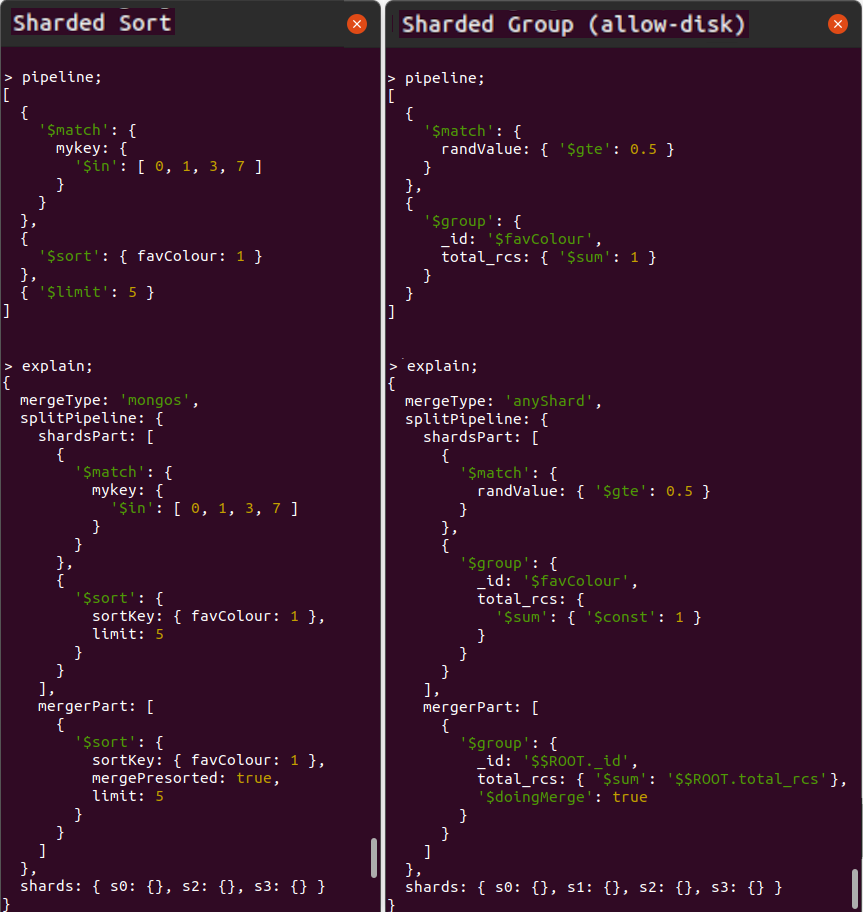
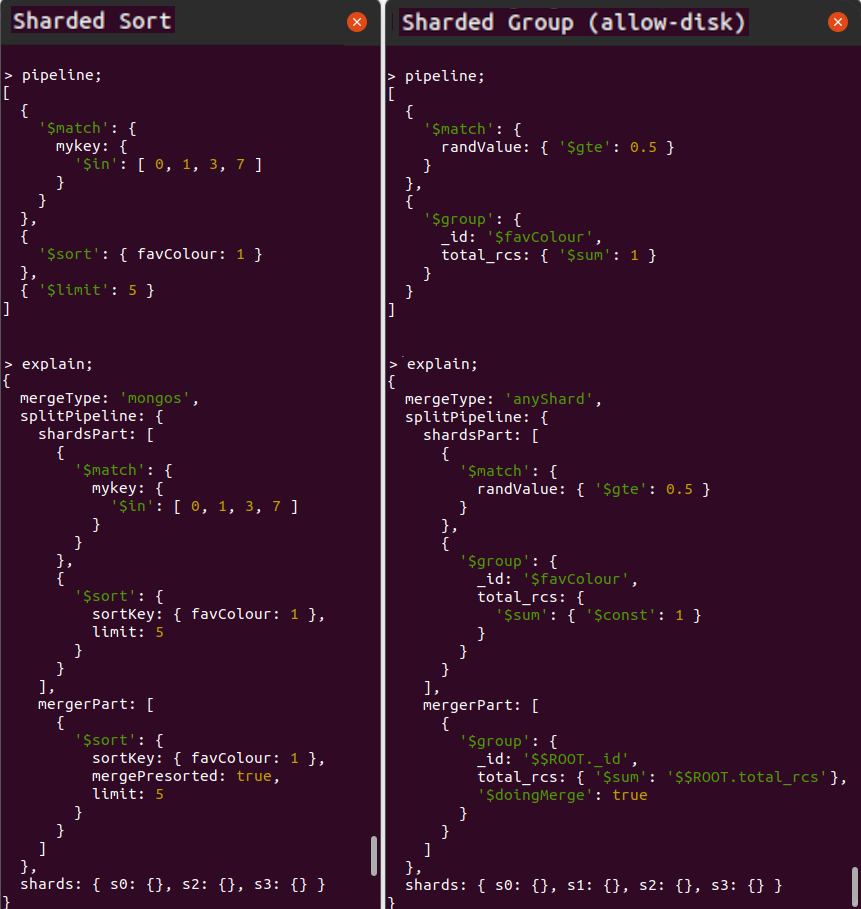
Various preliminary changes for 7.0 + rounding or transparency of images to help with dark mode viewing of the book

diff --git a/src/examples/array-manipulations/array-fields-joining.md b/src/examples/array-manipulations/array-fields-joining.md
@@ -1,0 +1,184 @@
+# Array Fields Joining
+
+__Minimum MongoDB Version:__ 4.2
+
+
+## Scenario
+
+You are developing a new dating website application using a database to hold the profiles of all registered users. For each user profile, you will persist a list of the user's specified hobbies, each with a description of how the user says they conduct the hobby. Each user profile also captures what the user prefers to do depending on their mood (e.g., "happy", "sad", or "chilling"). When you show the user profiles on the website to a person searching for a date, you want to show each candidate profile's description of how the candidate conducts their hobby for each mood, to help the person spot their ideal match.
+
+## Sample Data Population
+
+Drop any old version of the database (if it exists) and then populate a new user profiles collection:
+
+```javascript
+use book-array-fields-joining;
+db.dropDatabase();
+
+// Insert 2 records into the users collection
+db.users.insertMany([
+  {
+    "firstName": "Alice",
+    "lastName": "Jones",
+    "dateOfBirth": ISODate("1985-07-21T00:00:00Z"),
+    "hobbies": [
+      {"music": "Playing the guitar"},
+      {"reading": "Science Fiction books"},
+      {"gaming": "Video games, especially RPGs"},
+      {"sports": "Long-distance running"},
+      {"traveling": "Visiting exotic places"},
+      {"cooking": "Trying out new recipes"},
+    ],      
+    "moodFavourites": [
+      {"sad": "music"},
+      {"happy": "sports"},
+      {"chilling": "music"},
+    ],
+  },
+  {
+    "firstName": "Sam",
+    "lastName": "Brown",
+    "dateOfBirth": ISODate("1993-12-01T00:00:00Z"),
+    "hobbies": [
+      {"cycling": "Mountain biking"},
+      {"writing": "Poetry and short stories"},
+      {"knitting": "Knitting scarves and hats"},
+      {"hiking": "Hiking in the mountains"},
+      {"volunteering": "Helping at the local animal shelter"},
+      {"music": "Listening to Jazz"},
+      {"photography": "Nature photography"},
+      {"gardening": "Growing herbs and vegetables"},
+      {"yoga": "Practicing Hatha Yoga"},
+      {"cinema": "Watching classic movies"},
+    ],
+    "moodFavourites": [
+      {"happy": "gardening"},
+      {"sad": "knitting"},
+    ],
+  },
+]);
+```
+
+
+## Aggregation Pipeline
+
+You first need to define the following function to get the value with a matching key for an array of key-value pair objects:
+
+```javascript
+// Macro function to generate a complex expression to get the value with
+// a matching key for an array of key-value pair objects
+function getValueOfMatchingArrayElementByKey(array, key) {
+  return {
+    "$getField": {
+      "input": {
+        "$first": {
+          "$objectToArray": {
+            "$first": [ 
+              {"$filter": { 
+                "input": array, 
+                "as": "currElem",
+                "cond": {
+                  "$eq": [
+                    {"$getField": {
+                      "input": {"$first": {"$objectToArray": "$$currElem"}},
+                      "field": "k"}
+                    }, 
+                    key
+                  ]
+                },
+                "limit": 1
+              }}
+            ]        
+          }
+        }
+      },
+      "field": "v"
+    }
+  }
+}
+```
+
+Define the pipeline ready to perform the aggregation:
+
+```javascript
+const pipeline = [
+  // Set a field with activities each user likes doing according to their mood
+  {"$set": {
+    "moodActivities": {      
+      "$arrayToObject": {
+        "$map": { 
+          "input": {        
+            "$map": { 
+              "input": "$moodFavourites",
+              "in": {"$first": {"$objectToArray": "$$this"}},
+            }, 
+          },
+          "in": {              
+            "k": "$$this.k",
+            "v": getValueOfMatchingArrayElementByKey("$hobbies", "$$this.v"),
+          }
+        }, 
+      }
+    }
+  }},
+
+  // Remove unwanted fields  
+  {"$unset": [
+    "_id",
+    "hobbies",
+    "moodFavourites",
+  ]},  
+]
+```
+
+
+## Execution
+
+Execute the aggregation using the defined pipeline and also view its explain plan:
+
+```javascript
+db.users.aggregate(pipeline);
+```
+
+```javascript
+db.users.explain().aggregate(pipeline);
+```
+
+
+## Expected Results
+
+Two documents should be returned, each showing a new `moodActivities` array field containing descriptions of how a user conducts their preferred hobby for each mood, as shown below::
+
+```javascript
+[
+  {
+    firstName: 'Alice',
+    lastName: 'Jones',
+    dateOfBirth: ISODate("1985-07-21T00:00:00.000Z"),
+    moodActivities: {
+      sad: 'Playing the guitar',
+      happy: 'Long-distance running',
+      chilling: 'Playing the guitar'
+    }
+  },
+  {
+    firstName: 'Sam',
+    lastName: 'Brown',
+    dateOfBirth: ISODate("1993-12-01T00:00:00.000Z"),
+    moodActivities: {
+      happy: 'Growing herbs and vegetables',
+      sad: 'Knitting scarves and hats'
+    }
+  }
+]
+```
+
+
+## Observations
+
+* __Reusable Macro Functions.__ As with many of the other Array Manipulation Examples, the aggregation uses a macro function to generate boilerplate code for use in the pipeline. This is a general-purpose function and reusable as-is in other solutions.
+
+ * __Joining Between Two Fields In Each Record.__ Each user document has two array fields, the first called `hobbies` and the second called `moodFavourites`, and both these arrays hold key-value pairs. Essentially, the aggregation is joining the values from the `moodFavourites` array with the keys from the `hobbies` array and then outputting the keys from the 'moodFavourites' array paired with matching values of the `hobbies` array. The names of the new keys in the key-value pairs of the array field the aggregation is joining to are not known ahead of time. Therefore, the new `getValueOfMatchingArrayElementByKey()` macro function performs some 'gymnastics'. The macro uses `$objectToArray` in two places. It has to look up all the keys by the name 'k' to match just one, and it has to look up the values by the name 'v' to extract just one. The main pipeline then uses `$arrayToObject` to bring each new key ('k') and its new matching value ('v') back together again, with their proper titles (e.g. 'happy': 'Long-distance running').
+ 
+ * __Grouping Array Elements Without Unwinding First.__ As with the [previous example](array-element-grouping.md), the aggregation avoids unnecessarily unwinding each document's two arrays to group back together again, just to manipulate each document's array fields in isolation from other documents. It avoids introducing a blocking and resource-limited grouping step in the pipeline.
+ 

diff --git a/src/examples/array-manipulations/array-sort-percentiles.md b/src/examples/array-manipulations/array-sort-percentiles.md
@@ -9,13 +9,15 @@ You've conducted performance testing of an application with the results of each 
 
 > _For MongoDB version 5.1 and earlier, the example will use a modified version of an "expression generator" [function for inline sorting of arrays](https://github.com/asya999/bits-n-pieces/blob/master/scripts/sortArray.js) created by [Asya Kamsky](https://twitter.com/asya999). Adopting this approach avoids the need for you to use the combination of `$unwind`, `$sort`, and `$group` stages. Instead, you process each document's array in isolation for [optimum performance](../../guides/performance.md#2-avoid-unwinding--regrouping-documents-just-to-process-array-elements). You can reuse this chapter's custom `sortArray()` function as-is for your own situations where you need to sort an array field's contents. For MongoDB version 5.2 and greater, you can instead use MongoDB's new [`$sortArray`](https://www.mongodb.com/docs/manual/reference/operator/aggregation/sortArray/) operator._
 
+> _MongoDB version 7.0 introduced the `$percentile` and `$median` operators. Combining these with the `$sortArray` operator can significantly simplify the solution. The final observation in this chapter provides a far simpler pipeline for this example._
+
 
 ## Sample Data Population
 
 Drop any old version of the database (if it exists) and then populate the test run results collection:
 
 ```javascript
-use book-inline-array-sort-percentile;
+use book-array-sort-percentiles;
 db.dropDatabase();
 
 // Insert 7 records into the performance_test_results collection
@@ -227,12 +229,6 @@ Five documents should be returned, representing the subset of documents with a 9
 ```javascript
 [
   {
-    testRun: 7,
-    sortedResponseTimesMillis: [ 101 ],
-    medianTimeMillis: 101,
-    ninetiethPercentileTimeMillis: 101
-  },
-  {
     testRun: 1,
     sortedResponseTimesMillis: [
       59, 62, 62,  71,  82,
@@ -265,6 +261,12 @@ Five documents should be returned, representing the subset of documents with a 9
     sortedResponseTimesMillis: [ 67, 78, 107, 110 ],
     medianTimeMillis: 78,
     ninetiethPercentileTimeMillis: 110
+  },
+  {
+    testRun: 7,
+    sortedResponseTimesMillis: [ 101 ],
+    medianTimeMillis: 101,
+    ninetiethPercentileTimeMillis: 101
   }
 ]
 ```
@@ -277,4 +279,42 @@ Five documents should be returned, representing the subset of documents with a 9
  * __Sorting On Primitives Only.__ The custom `sortArray()` function used for MongoDB versions 5.1 and earlier will sort arrays containing just primitive values, such as integers, floats, date-times and strings. However, if an array's members are objects (i.e. each has its own fields and values), the code will not sort the array correctly. It is possible to enhance the function to enable sorting an array of objects, but this enhancement is not covered here. For MongoDB versions 5.2 and greater, the new `$sortArray` operator provides options to easily sort an array of objects.
 
  * __Comparison With Classic Sorting Algorithms.__ Despite being more optimal than unwinding and re-grouping arrays to bring them back into the same documents, the custom sorting code will be slower than commonly recognised computer science [sorting algorithms](https://en.wikipedia.org/wiki/Sorting_algorithm). This situation is due to the limitations of the aggregation domain language compared with a general-purpose programming language. The performance difference will be negligible for arrays with few elements (probably up to a few tens of members). For larger arrays containing hundreds of members or more, the degradation in performance will be more profound. For MongoDB versions 5.2 and greater, the new `$sortArray` operator leverages a fully optimised sorting algorithm under the covers to avoid this issue.
+
+ * __Simplified Pipeline In MongoDB 7.0.__ Combining the `$sortArray` operator introduced in MongoDB version 5.2 and the `$percentile` and `$median` operators introduced in MongoDB version 7.0, you can employ a significantly simpler pipeline for the solution, without requiring any macros, as shown below:
+ 
+    
+     ```javascript
+      var pipeline = [
+        {"$set": {
+          "sortedResponseTimesMillis": {
+            "$sortArray": {
+              "input": "$responseTimesMillis",
+              "sortBy": 1
+            }
+          },
+          
+          "medianTimeMillis": {
+            "$median": {
+              "input": "$responseTimesMillis",
+              "method": "approximate",
+            }
+          },
+
+          "ninetiethPercentileTimeMillis": {
+            "$first": {
+              "$percentile": {
+                "input": "$responseTimesMillis",
+                "p": [0.90],
+                "method": "approximate",
+              }
+            }
+          }    
+        }},
+
+        {"$match": {
+          "ninetiethPercentileTimeMillis": {"$gt": 100},
+        }},
+      ];
+
+     ```
 

diff --git a/src/intro/history.md b/src/intro/history.md
@@ -34,4 +34,5 @@ Below is a summary of the evolution of the Aggregation Framework in terms of sig
 * __MongoDB 4.4 (July 2020)__: A union stage, custom JavaScript operator expressions (function & accumulator), first & last array element operators, string replacement operators, a random number operator
 * __MongoDB 5.0 (July 2021)__: A setWindowFields stage, time-series/window operators, date manipulation operators
 * __MongoDB 6.0 (July 2022)__: Support for lookup & graph-lookup stages joining to sharded collections, new densify, documents & fill stages, new array sorting & linearFill operators, new operators to get a subset of ordered arrays or ordered grouped documents
+* __MongoDB 7.0 (August 2023)__: A user roles system variable for use in pipelines, new median and percentile operators
 

diff --git a/src/SUMMARY.md b/src/SUMMARY.md
@@ -50,6 +50,7 @@
         - [Pivot Array Items By A Key](examples/array-manipulations/pivot-array-items.md)
         - [Array Sorting & Percentiles](examples/array-manipulations/array-sort-percentiles.md)
         - [Array Element Grouping](examples/array-manipulations/array-element-grouping.md)
+        - [Array Fields Joining](examples/array-manipulations/array-fields-joining.md)
         - [Comparison Of Two Arrays](examples/array-manipulations/comparison-of-two-arrays.md)
     - [Full Text Search Examples](examples/full-text-search/full-text-search.md)
         - [Compound Text Search Criteria](examples/full-text-search/compound-text-search.md)

diff --git a/src/appendices/book-history.md b/src/appendices/book-history.md
@@ -2,6 +2,12 @@
 
 A summary of the significant additions in each major version of this book.
 
+__Version 7.0 (released in July 2023)__
+* [Array Fields Joining](../examples/array-manipulations/array-fields-joining.md) example chapter
+* TODO
+
+_No version 6.0 existed - skipped straight to version 7.0 to align with the latest MongoDB version_
+
 __Version 5.0 (released in November 2022)__
 * [State Change Boundaries](../examples/time-series/state-change-boundaries.md) example chapter
 * [Array Element Grouping](../examples/array-manipulations/array-element-grouping.md) example chapter

diff --git a/src/credits.md b/src/credits.md
@@ -4,11 +4,11 @@
 
 Author: Paul Done ([@TheDonester](https://twitter.com/TheDonester))
 
-Version: 5.01
+Version: 7.00
 
-Last updated: May 2023 &nbsp;&nbsp;&nbsp;(see [Book Version History](appendices/book-history.md))
+Last updated: July 2023 &nbsp;&nbsp;&nbsp;(see [Book Version History](appendices/book-history.md))
 
-MongoDB versions supported: 4.2 → 6.3
+MongoDB versions supported: 4.2 → 7.0
 
 Book published at: [www.practical-mongodb-aggregations.com](https://www.practical-mongodb-aggregations.com)
 

diff --git a/README.md b/README.md
@@ -72,5 +72,5 @@ This work is licensed under a [Creative Commons Attribution-NonCommercial-ShareA
 [cc-by-nc-sa-image]: https://licensebuttons.net/l/by-nc-sa/3.0/88x31.png
 [cc-by-nc-sa-shield]: https://img.shields.io/badge/License-CC%20BY--NC--SA%203.0-lightgrey.svg
 
-Copyright &copy; 2021-2022 MongoDB, Inc.
+Copyright &copy; 2021-2023 MongoDB, Inc.
 
